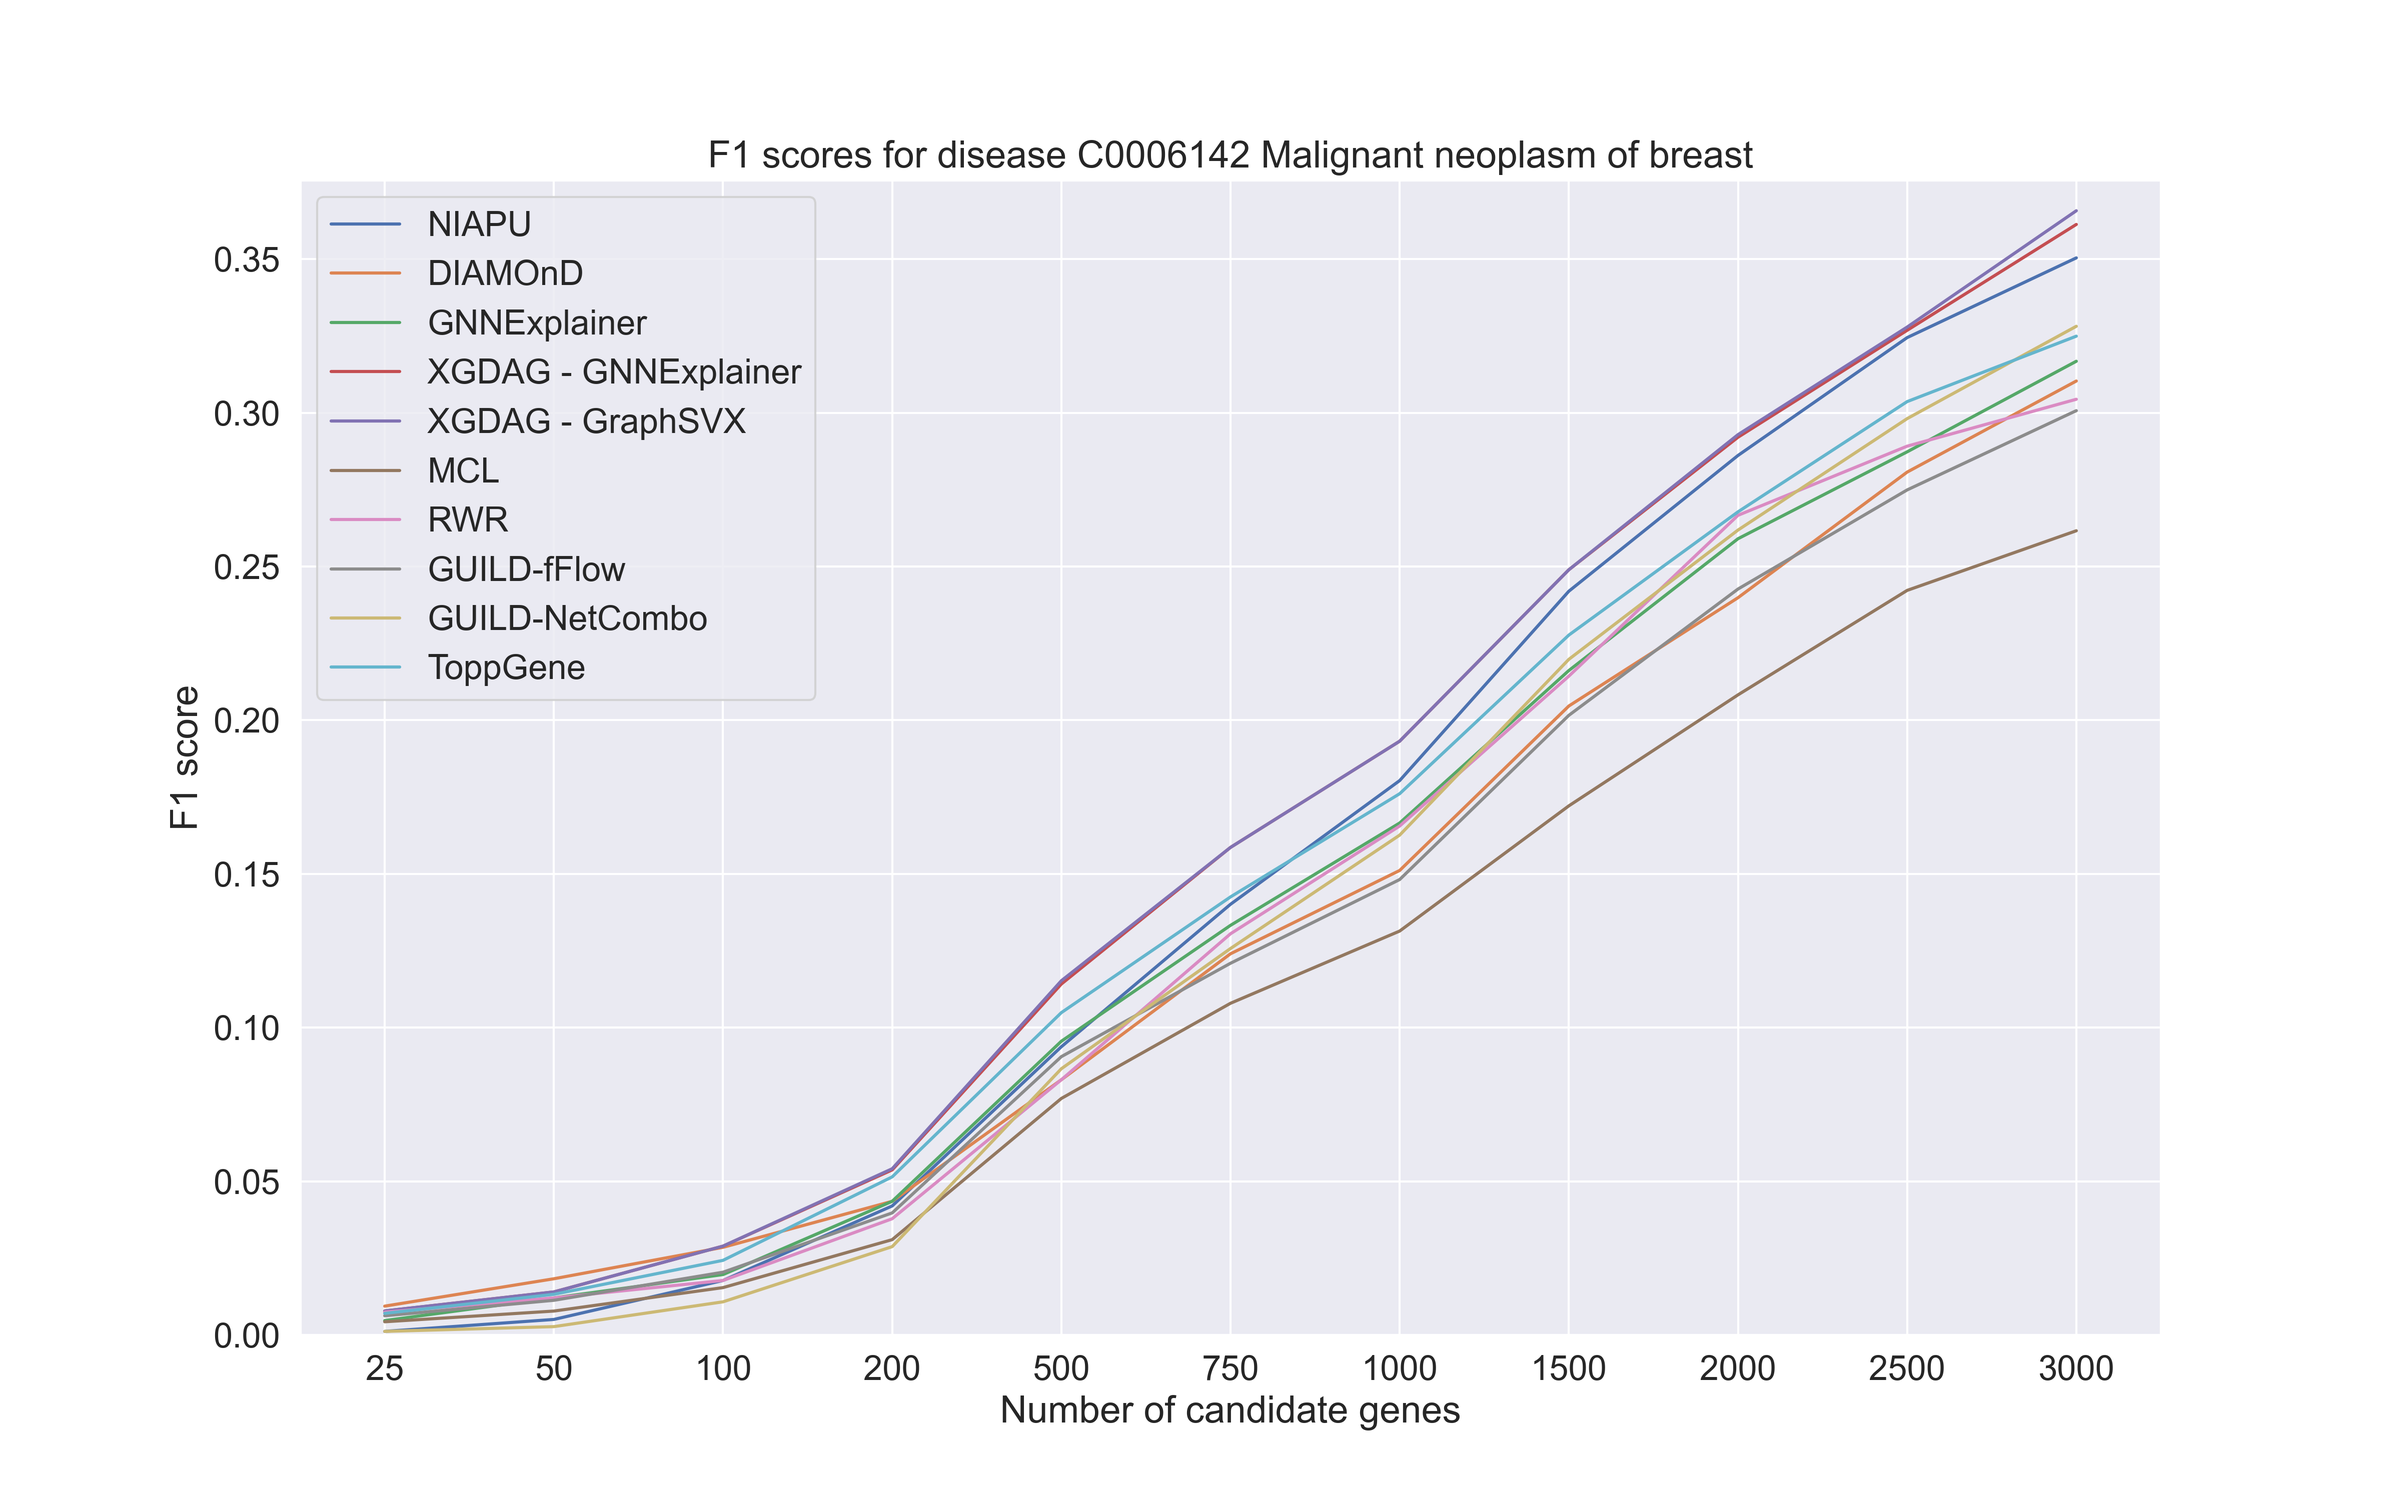
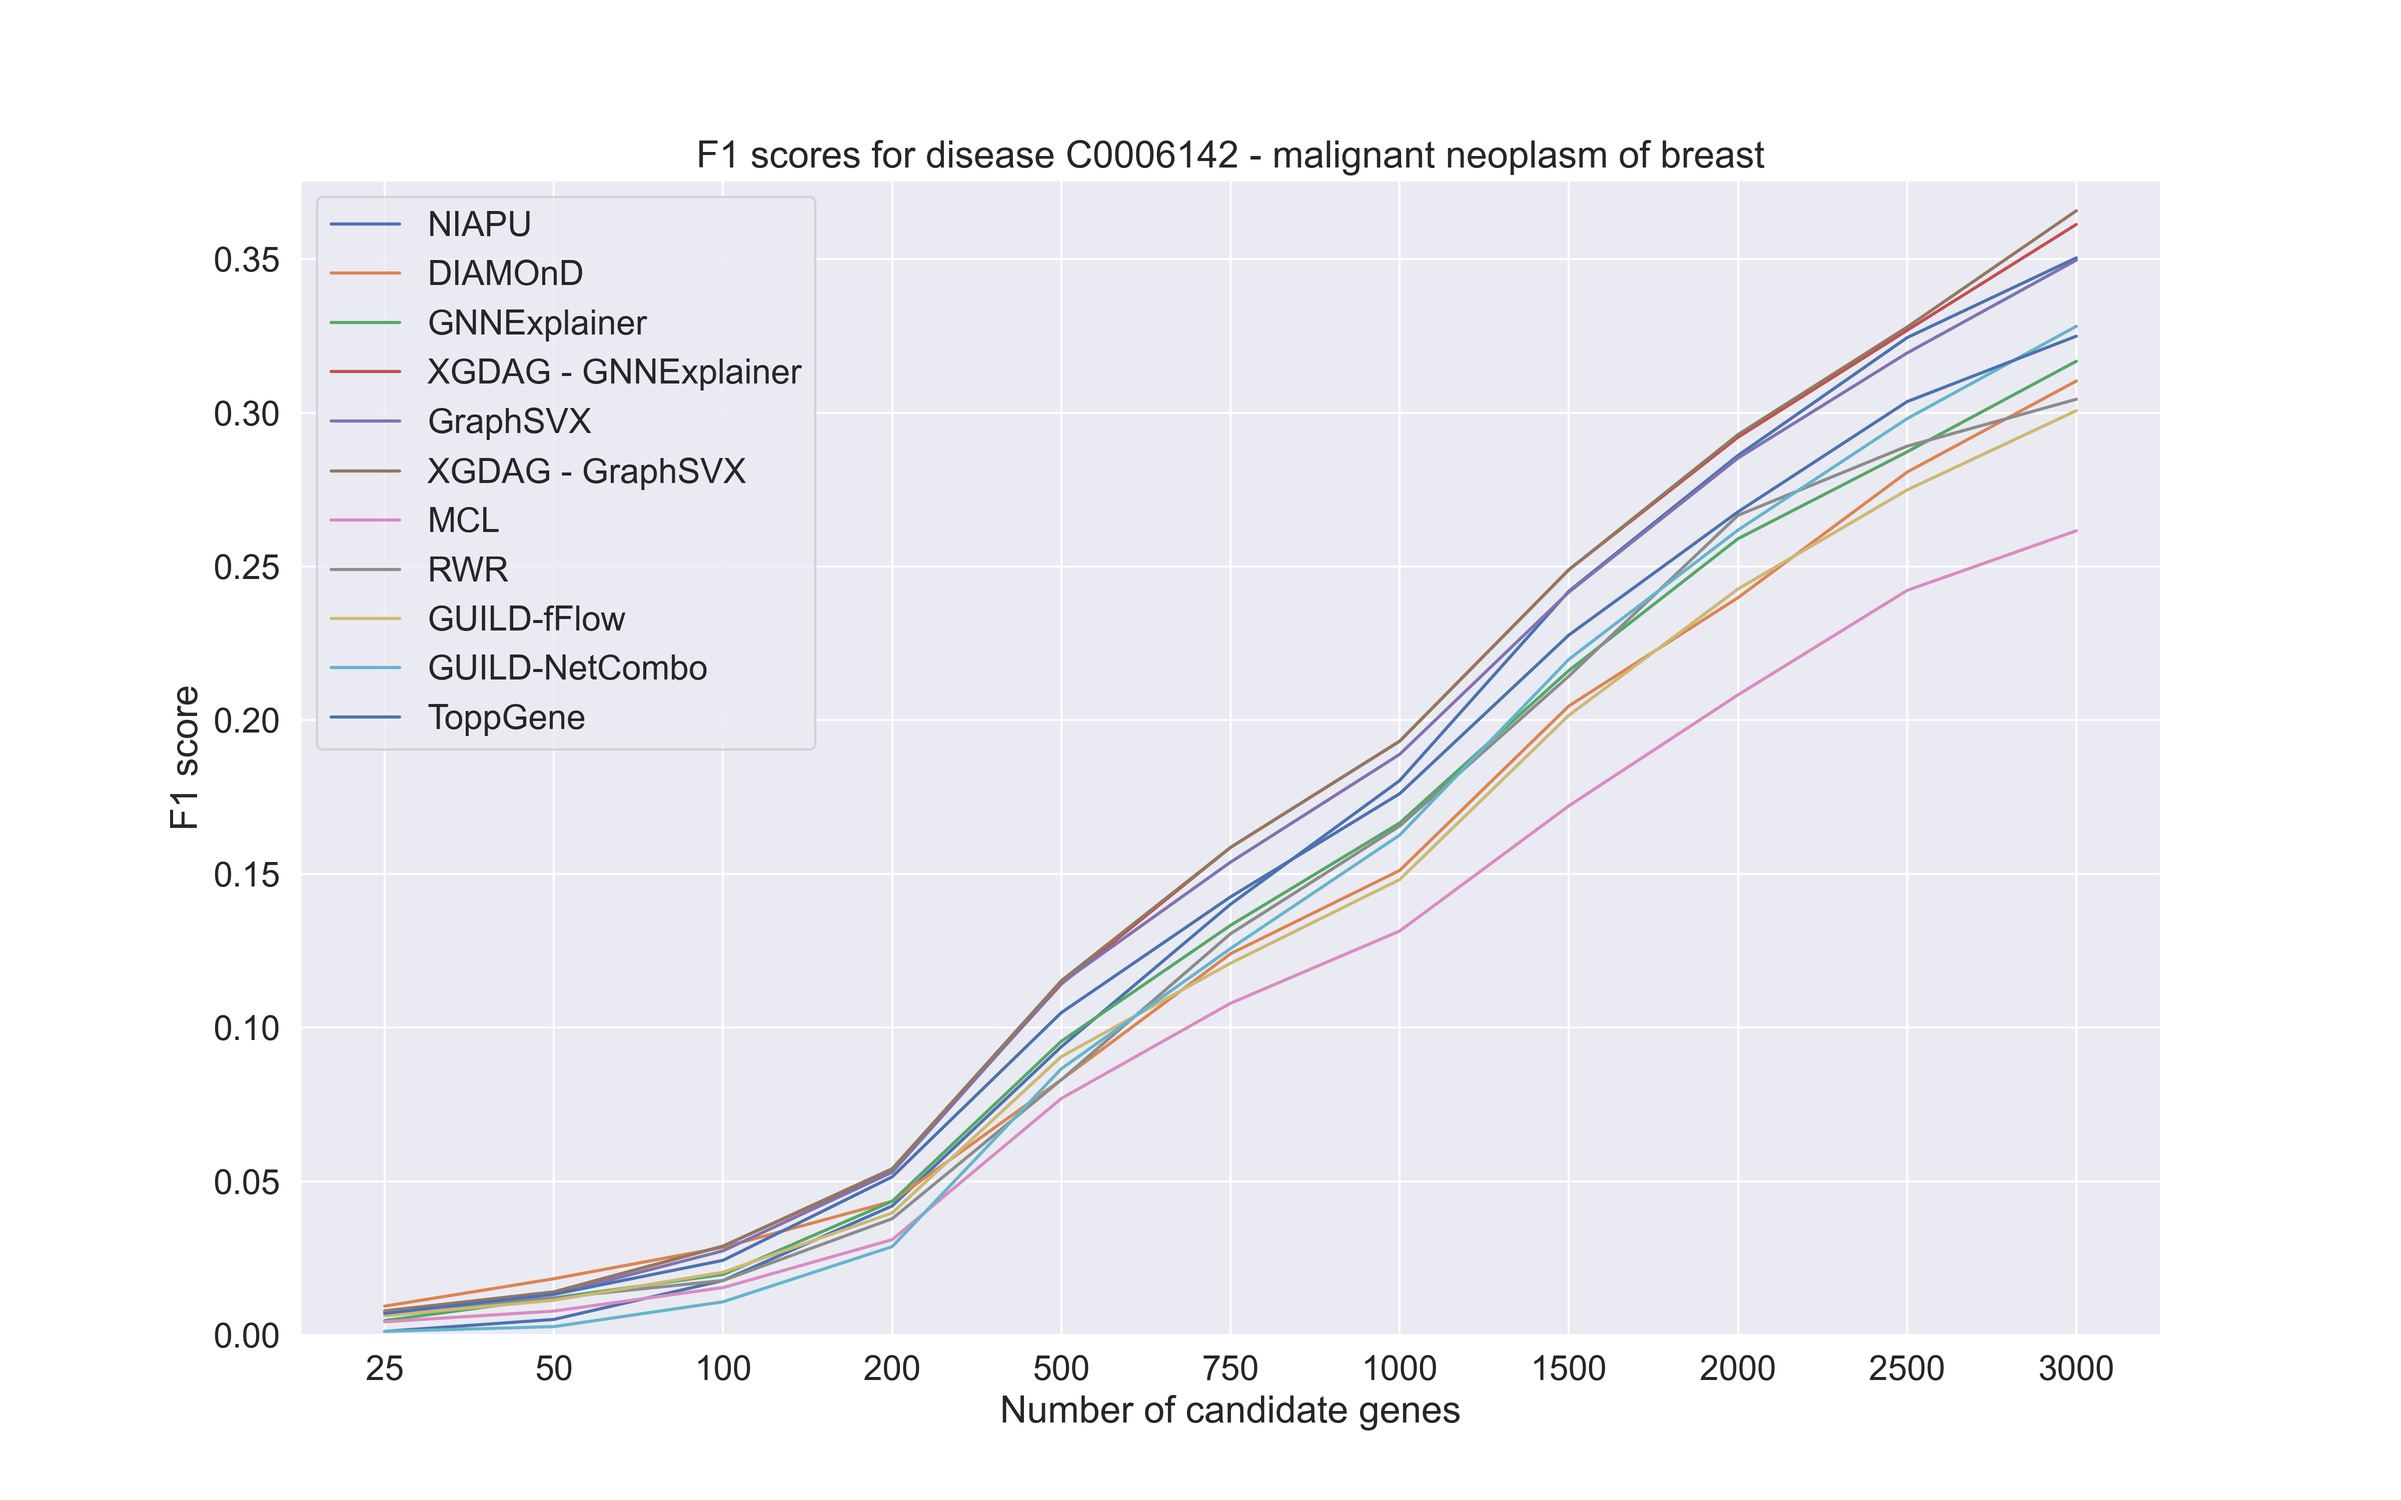
Generate plots including GraphSVX

diff --git a/comparison_gene_discovery_plots.py b/comparison_gene_discovery_plots.py
@@ -21,7 +21,7 @@ DISEASE_CODES = {"C0006142_Malignant_neoplasm_of_breast": "C0006142", "C0009402_
 # COMPARE_METHODS = ["DIAMOnD", "XGDAG", "XGDAG + LP", "fFlow", "NetCombo", "NetRank"]
 GUILD_METHODS = ["fFlow", "NetScore", "NetZcore", "NetShort","NetCombo", "NetRank"]
 # COMPARE_METHODS = ["DIAMOnD", "GNNExplainer", "XGDAG"]
-COMPARE_METHODS = ["DIAMOnD", "GNNExplainer", "XGDAG - GNNExplainer", "XGDAG - GraphSVX", "MCL", "RWR", "fFlow", "NetCombo", "NetRank"]
+COMPARE_METHODS = ["DIAMOnD", "GNNExplainer", "XGDAG - GNNExplainer", "GraphSVX", "XGDAG - GraphSVX", "MCL", "RWR", "fFlow", "NetCombo", "NetRank"]
 
 XAI_METHODS = ["GNNExplainer", "XGDAG - GNNExplainer", "GraphSVX", "XGDAG - GraphSVX", "SubraphX", "XGDAG - SubgraphX",
                 "EdgeSHAPer", "XGDAG - EdgeSHAPer"]
@@ -194,6 +194,11 @@ for DISEASE_NAME in tqdm(DISEASE_NAMES):
         
         ratios = [str(n) for n in ratios_to_validate]
         
+        dis_name_full = DISEASE_NAME.split("_")
+        dis_code = dis_name_full[0]
+        dis_name = " ".join(dis_name_full[1:]).lower()
+        dis_name_title = dis_code + " - " + dis_name
+        
         # sns.lineplot(x=ratios, y=precision_folds)
         # plt.ylabel("Precision")
         # plt.xlabel("Number of candidate genes")
@@ -238,7 +243,7 @@ for DISEASE_NAME in tqdm(DISEASE_NAMES):
         plt.xlabel("Number of candidate genes")
         plt.legend(loc = "best")
         # plt.legend(["NIAPU P"], ["NIAPU R"])
-        plt.title("Recall scores for disease " + DISEASE_NAME.replace("_", " "))
+        plt.title("Recall scores for disease " + dis_name_title)
         plt.ylim(0, max_rec + 0.01)
         
         # plt.ylim(0, max(recall_folds) + 0.1)
@@ -277,7 +282,7 @@ for DISEASE_NAME in tqdm(DISEASE_NAMES):
         plt.ylabel("Precision")
         plt.xlabel("Number of candidate genes")
         plt.legend(loc = "best")
-        plt.title("Precision scores for disease " + DISEASE_NAME.replace("_", " "))
+        plt.title("Precision scores for disease " + dis_name_title)
         # plt.legend(["NIAPU P"], ["NIAPU R"])
         #plt.ylim(0, 1)
         plt.ylim(0, max_prec + 0.01)
@@ -317,7 +322,7 @@ for DISEASE_NAME in tqdm(DISEASE_NAMES):
         plt.ylabel("F1 score")
         plt.xlabel("Number of candidate genes")
         plt.legend(loc = "best")
-        plt.title("F1 scores for disease " + DISEASE_NAME.replace("_", " "))
+        plt.title("F1 scores for disease " + dis_name_title)
         # plt.legend(["NIAPU P"], ["NIAPU R"])
         #plt.ylim(0, 1)
         plt.ylim(0, max_F1 + 0.01)
